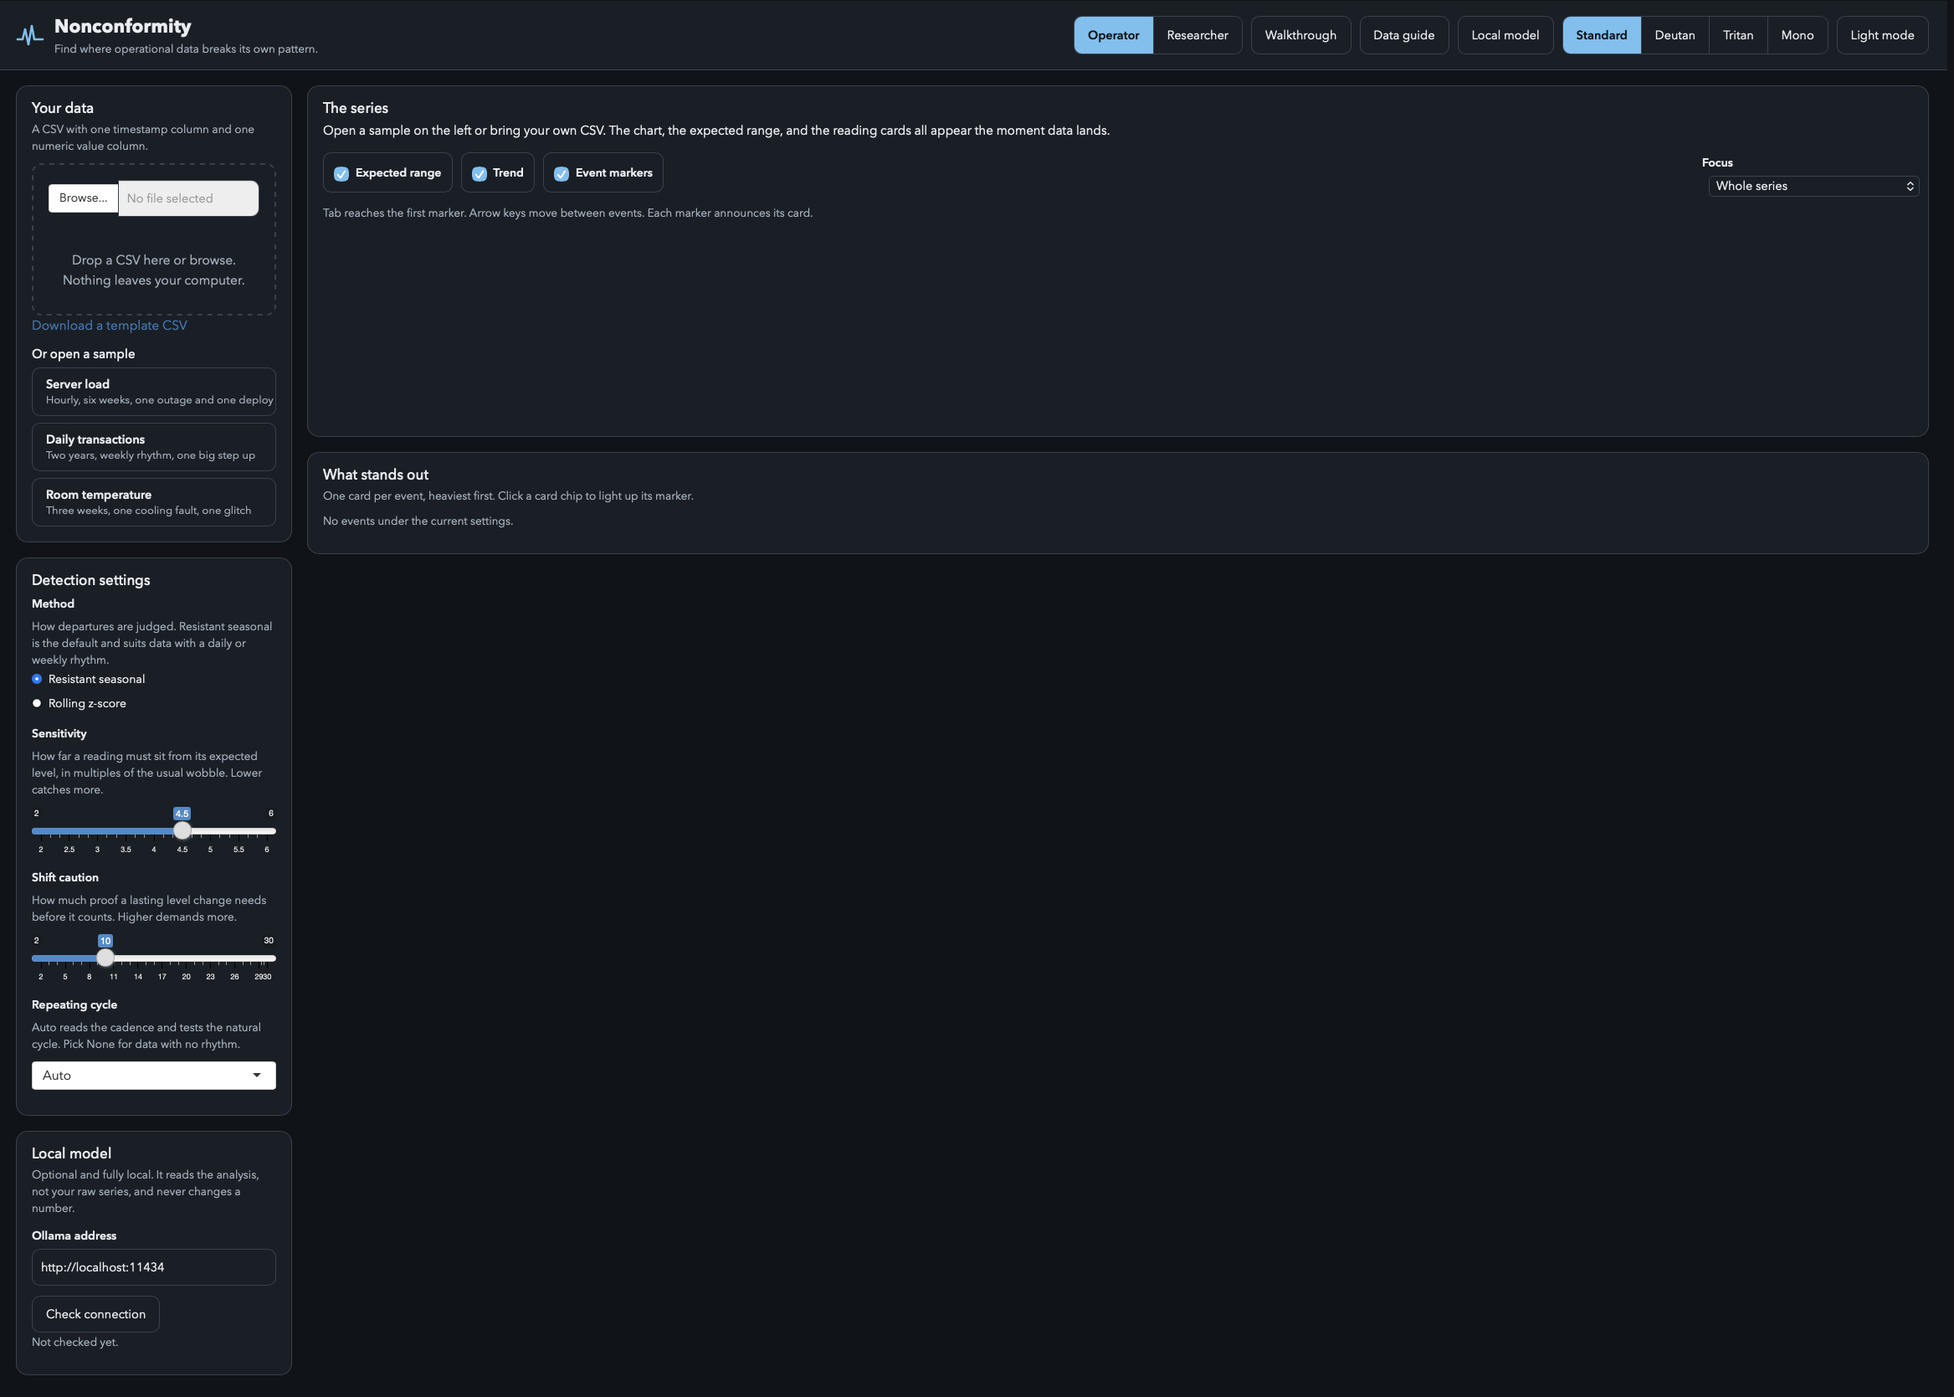
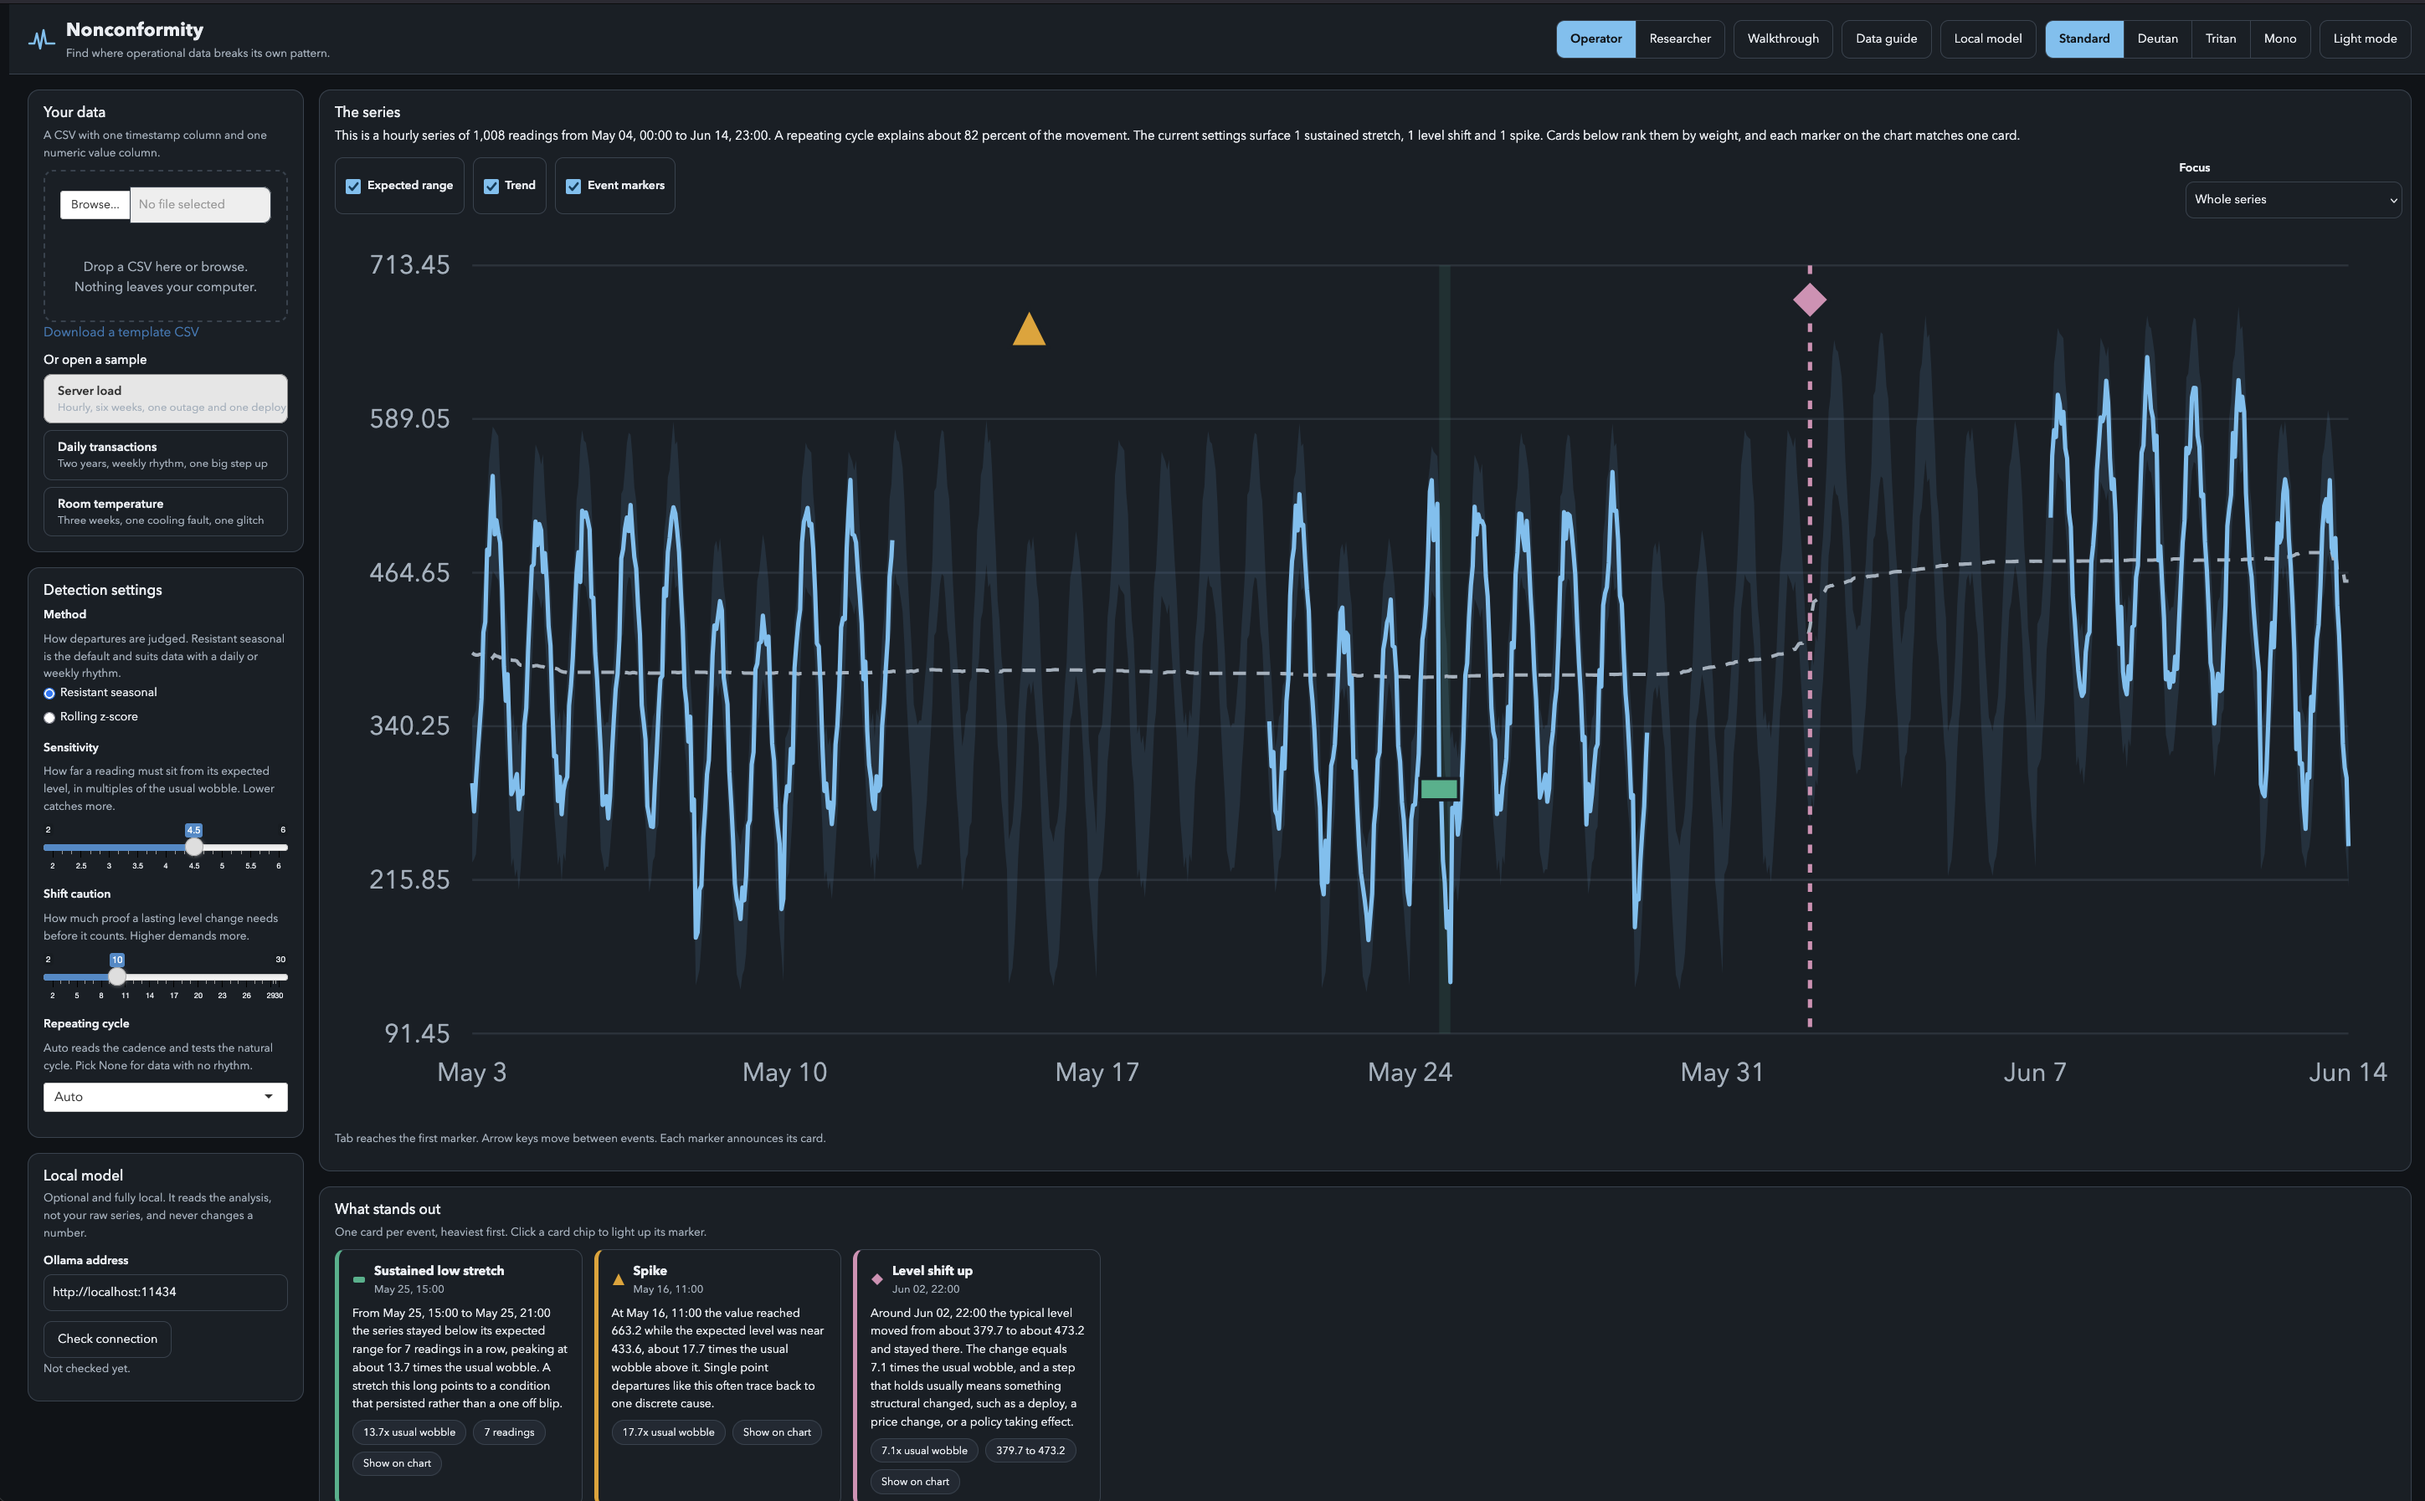
Updated readme and screenshot

diff --git a/README.md b/README.md
@@ -17,7 +17,7 @@ numbers alone. Nothing leaves your computer.
 The app serves two audiences from one screen. An operator sees plain charts,
 plain readings, and a few honest controls. A researcher sees the same data
 with the method internals exposed: the raw scores, the choice of detector, and
-the exact call that reproduces a run. The view switch sits in the header.
+the exact call that reproduces a run.
 
 ## Screenshot
 
